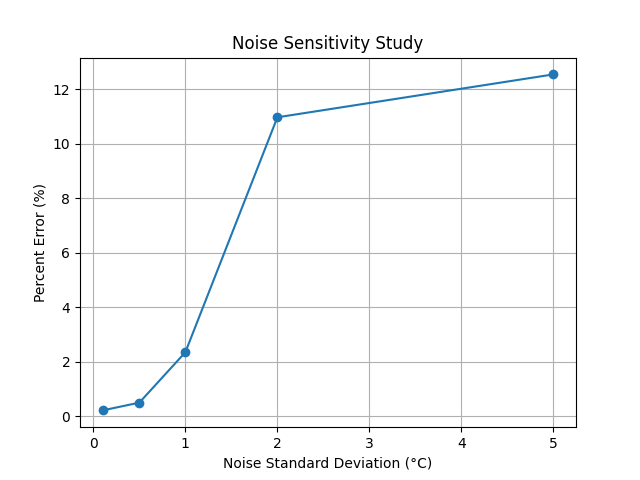
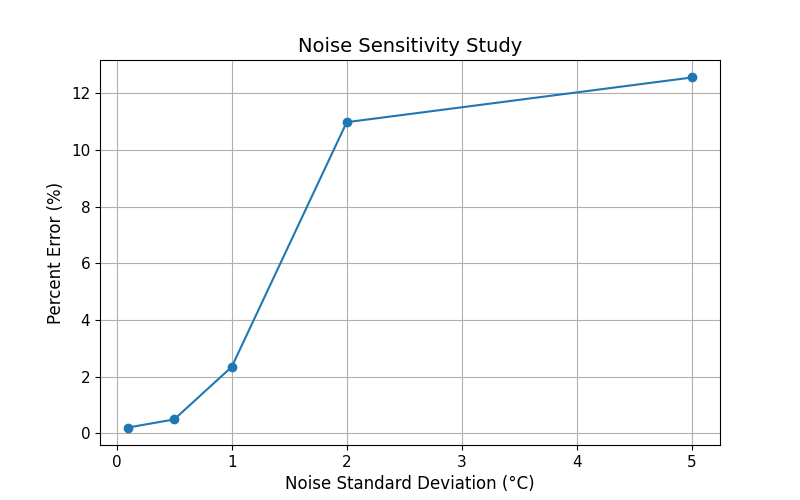
Added Monte Carlo uncertainty analysis study

diff --git a/examples/monte_carlo_estimation.py b/examples/monte_carlo_estimation.py
@@ -1,0 +1,103 @@
+import numpy as np
+from src.analysis.plotting import plot_monte_carlo_histogram
+from src.core.config import (
+    MONTE_CARLO_DATA,
+    MONTE_CARLO_PLOT,
+    mh,
+    mc,
+    Cph,
+    Cpc,
+    UA_true,
+    y0,
+    t_span,
+    t_eval,
+    MONTE_CARLO_TRIALS,
+    MONTE_CARLO_NOISE_STD,
+    MONTE_CARLO_SEED
+    )
+
+from src.experiments.synthetic_data import generate_clean_data, add_noise
+from src.inference.parameter_estimator import estimate_UA
+from src.utils.data_export import save_table
+
+def run_monte_carlo_estimation():
+    np.random.seed(MONTE_CARLO_SEED)
+    UA_estimates = []
+    results = []
+    for trial in range(MONTE_CARLO_TRIALS):
+        # Generate Clean Data
+        time, Th_true, Tc_true = generate_clean_data(
+            mh,
+            mc,
+            Cph,
+            Cpc,
+            UA_true,
+            y0,
+            t_span,
+            t_eval
+        )
+
+        # Generate Synthetic Measurements
+        Th_meas, Tc_meas = add_noise(
+            Th_true,
+            Tc_true,
+            noise_std=MONTE_CARLO_NOISE_STD,
+        )
+
+        # Estimate UA
+        UA_est = estimate_UA(
+            mh,
+            mc,
+            Cph,
+            Cpc,
+            y0,
+            t_span,
+            t_eval,
+            Th_meas,
+            Tc_meas
+        )
+
+        UA_estimates.append(UA_est)
+        results.append((trial + 1, UA_est))
+
+    # Save results
+    save_table(
+        filename=MONTE_CARLO_DATA,
+        headers=[
+            "iteration",
+            "UA_estimate"
+        ],
+        rows=results
+    )
+
+    # Compute statistics
+    std_UA = np.std(UA_estimates)
+    mean_UA = np.mean(UA_estimates)
+    min_UA = np.min(UA_estimates)
+    max_UA = np.max(UA_estimates)
+
+    mean_error = abs((mean_UA - UA_true) / UA_true) * 100
+
+    print("\nMonte Carlo Estimation Results:")
+    print(f"Mean UA Estimate: {mean_UA:.2f} W/K")
+    print(f"Standard Deviation: {std_UA:.2f} W/K")
+    print(f"Min UA Estimate: {min_UA:.2f} W/K")
+    print(f"Max UA Estimate: {max_UA:.2f} W/K")
+    print(f"Mean Percent Error: {mean_error:.2f}%")
+
+    # Plot histogram of estimates
+    plot_monte_carlo_histogram(
+        UA_estimates,
+        UA_true,
+        filename=MONTE_CARLO_PLOT
+    )
+
+    # Return results for further analysis if needed
+    return {
+    "mean": mean_UA,
+    "std": std_UA,
+    "min": min_UA,
+    "max": max_UA,
+    "mean_error": mean_error,
+    "estimates": UA_estimates
+    }

diff --git a/src/analysis/plotting.py b/src/analysis/plotting.py
@@ -96,3 +96,45 @@ def plot_noise_sensitivity(
         plt.savefig(filename)
 
     plt.show()
+
+
+def plot_monte_carlo_histogram(
+    UA_estimates,
+    UA_true,
+    filename=None
+):
+    """
+    Plot histogram of Monte Carlo UA estimates.
+    """
+
+    set_plotting_style()
+
+    plt.figure()
+
+    plt.hist(
+        UA_estimates,
+        bins=15
+    )
+
+    plt.axvline(
+        UA_true,
+        linestyle="--",
+        label=f"True UA = {UA_true:.2f}"
+    )
+
+    plt.xlabel("Estimated UA (W/K)")
+    plt.ylabel("Frequency")
+    plt.title("Monte Carlo Parameter Estimation")
+
+    plt.legend()
+
+    if filename is not None:
+
+        os.makedirs(
+            os.path.dirname(filename),
+            exist_ok=True
+        )
+
+        plt.savefig(filename)
+
+    plt.show()

diff --git a/src/utils/data_export.py b/src/utils/data_export.py
@@ -1,14 +1,15 @@
 import os
 import csv
 
-def save_results(
+
+def save_estimation_results(
     filename,
     UA_true,
     UA_est,
     percent_error
-    ):
+):
     """
-    Save parameter estimation results to CSV.
+    Save a single parameter estimation result.
     """
 
     os.makedirs(
@@ -36,12 +37,14 @@ def save_results(
             percent_error
         ])
 
-def save_study_results(
+
+def save_table(
     filename,
-    results
+    headers,
+    rows
 ):
     """
-    Save a parameter study to CSV.
+    Save tabular study results to CSV.
     """
 
     os.makedirs(
@@ -57,11 +60,6 @@ def save_study_results(
 
         writer = csv.writer(file)
 
-        writer.writerow([
-            "noise_std",
-            "UA_true",
-            "UA_est",
-            "percent_error"
-        ])
+        writer.writerow(headers)
 
-        writer.writerows(results)
+        writer.writerows(rows)

diff --git a/main.py b/main.py
@@ -1,4 +1,3 @@
-import numpy as np
 from src.core.config import (
     mh,
     mc,
@@ -18,11 +17,12 @@ from src.inference.parameter_estimator import estimate_UA
 from src.simulation.simulator import simulate_heat_exchanger
 from src.analysis.plotting import plot_estimation_results
 from src.analysis.metrics import percent_error
-from src.utils.data_export import save_results
+from src.utils.data_export import save_estimation_results
 from examples.noise_sensitivity_study import run_noise_sensitivity_study
+from examples.monte_carlo_estimation import run_monte_carlo_estimation
 
 def main():
-
+    
     # Generate Clean Data
     time, Th_true, Tc_true = generate_clean_data(
         mh,
@@ -80,15 +80,15 @@ def main():
     print(f"Estimated UA : {UA_est:.2f} W/K")
 
     error = percent_error(
-    UA_true,
-    UA_est
+        UA_true,
+        UA_est
     )
 
-    save_results(
-    ESTIMATION_DATA,
-    UA_true,
-    UA_est,
-    error
+    save_estimation_results(
+        filename=ESTIMATION_DATA,
+        UA_true=UA_true,
+        UA_est=UA_est,
+        percent_error=error
     )
 
     print(f"Percent Error: {error:.2f}%")
@@ -106,6 +106,8 @@ def main():
     )
 
     run_noise_sensitivity_study()
+
+    run_monte_carlo_estimation()
 
 if __name__ == "__main__":
     main()

diff --git a/examples/noise_sensitivity_study.py b/examples/noise_sensitivity_study.py
@@ -13,7 +13,7 @@ from src.core.config import (
     )
 from src.inference.parameter_estimator import estimate_UA
 from src.analysis.metrics import percent_error
-from src.utils.data_export import save_study_results
+from src.utils.data_export import save_table
 from src.core.config import NOISE_SENSITIVITY_DATA, NOISE_SENSITIVITY_PLOT
 from src.analysis.plotting import plot_noise_sensitivity
 
@@ -33,7 +33,7 @@ def run_noise_sensitivity_study():
     np.random.seed(random_seed)
 
     for noise_std in noise_levels:
-        print(f"\nRunning estimation with noise std = {noise_std} K")
+        print(f"\nRunning estimation with noise std = {noise_std} C")
         print("=" * 50)
 
         # Generate Clean Data
@@ -78,10 +78,17 @@ def run_noise_sensitivity_study():
         noise_values.append(noise_std)
         error_values.append(error)
 
-    save_study_results(
-        NOISE_SENSITIVITY_DATA,
-        results
-        )
+    save_table(
+        filename=NOISE_SENSITIVITY_DATA,
+        headers=[
+            "noise_std",
+            "UA_true",
+            "UA_est",
+            "percent_error"
+        ],
+
+        rows=results
+    )
     
     plot_noise_sensitivity(
     noise_values,

diff --git a/src/core/config.py b/src/core/config.py
@@ -28,6 +28,11 @@ t_eval = np.linspace(t_start, t_end, n_points)
 noise_std = 0.5
 random_seed = 42
 
+# Monte Carlo Settings
+MONTE_CARLO_TRIALS = 100
+MONTE_CARLO_NOISE_STD = 1.0
+MONTE_CARLO_SEED = 42
+
 # Estimation Settings
 UA_initial = 300.0
 
@@ -56,4 +61,12 @@ NOISE_SENSITIVITY_PLOT = (
 
 NOISE_SENSITIVITY_DATA = (
     f"{DATA_DIR}/noise_sensitivity_study.csv"
+)
+
+MONTE_CARLO_PLOT = (
+    f"{PLOTS_DIR}/monte_carlo_histogram.png"
+)
+
+MONTE_CARLO_DATA = (
+    f"{DATA_DIR}/monte_carlo_estimation.csv"
 )